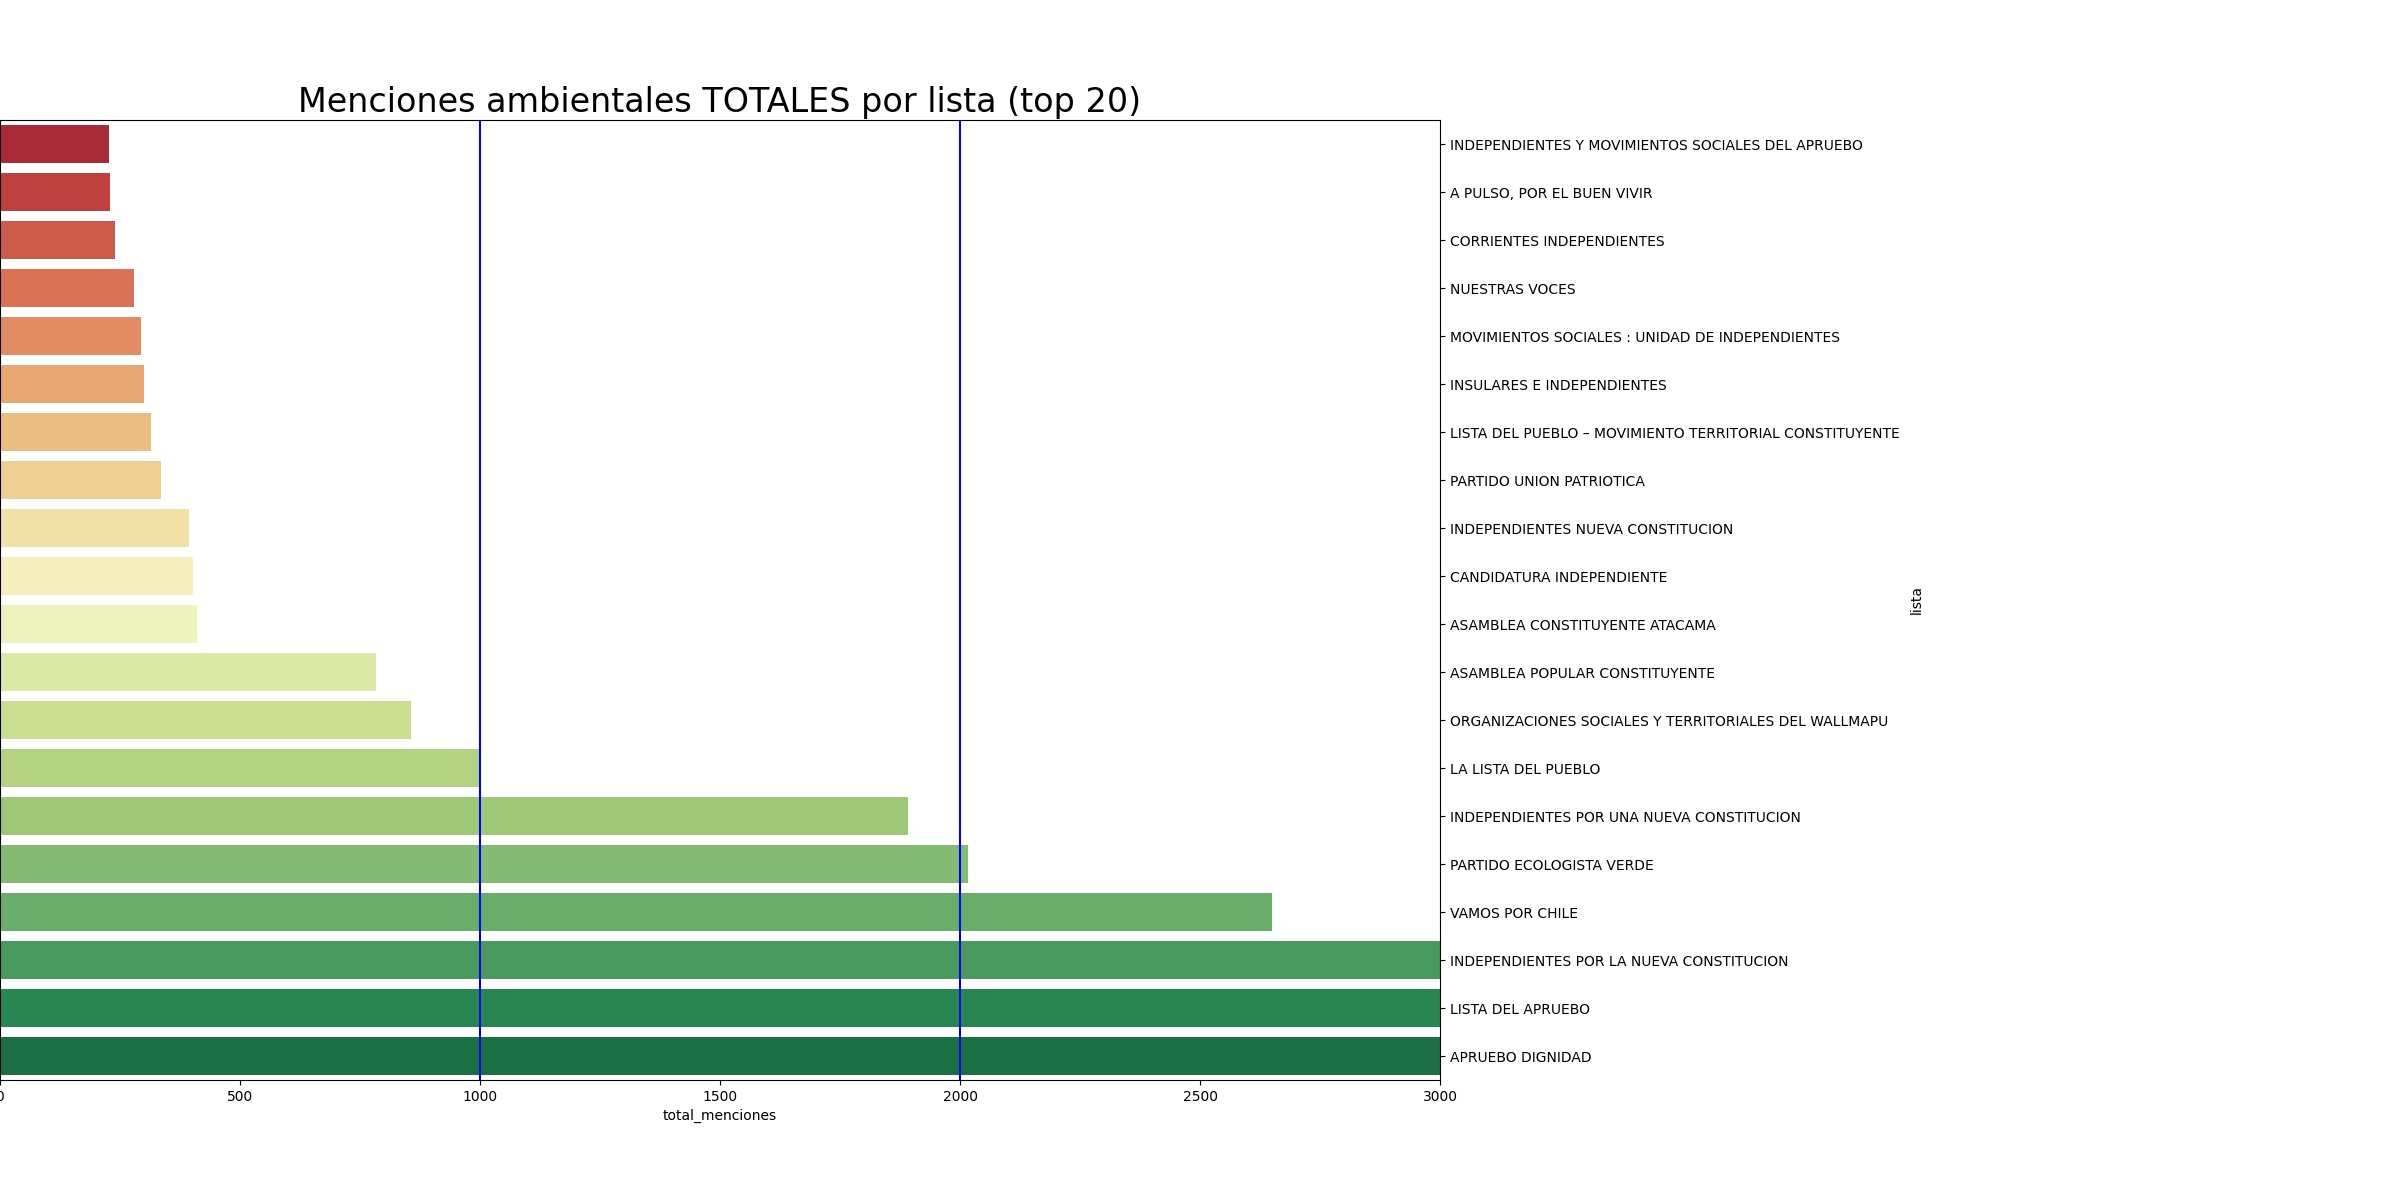
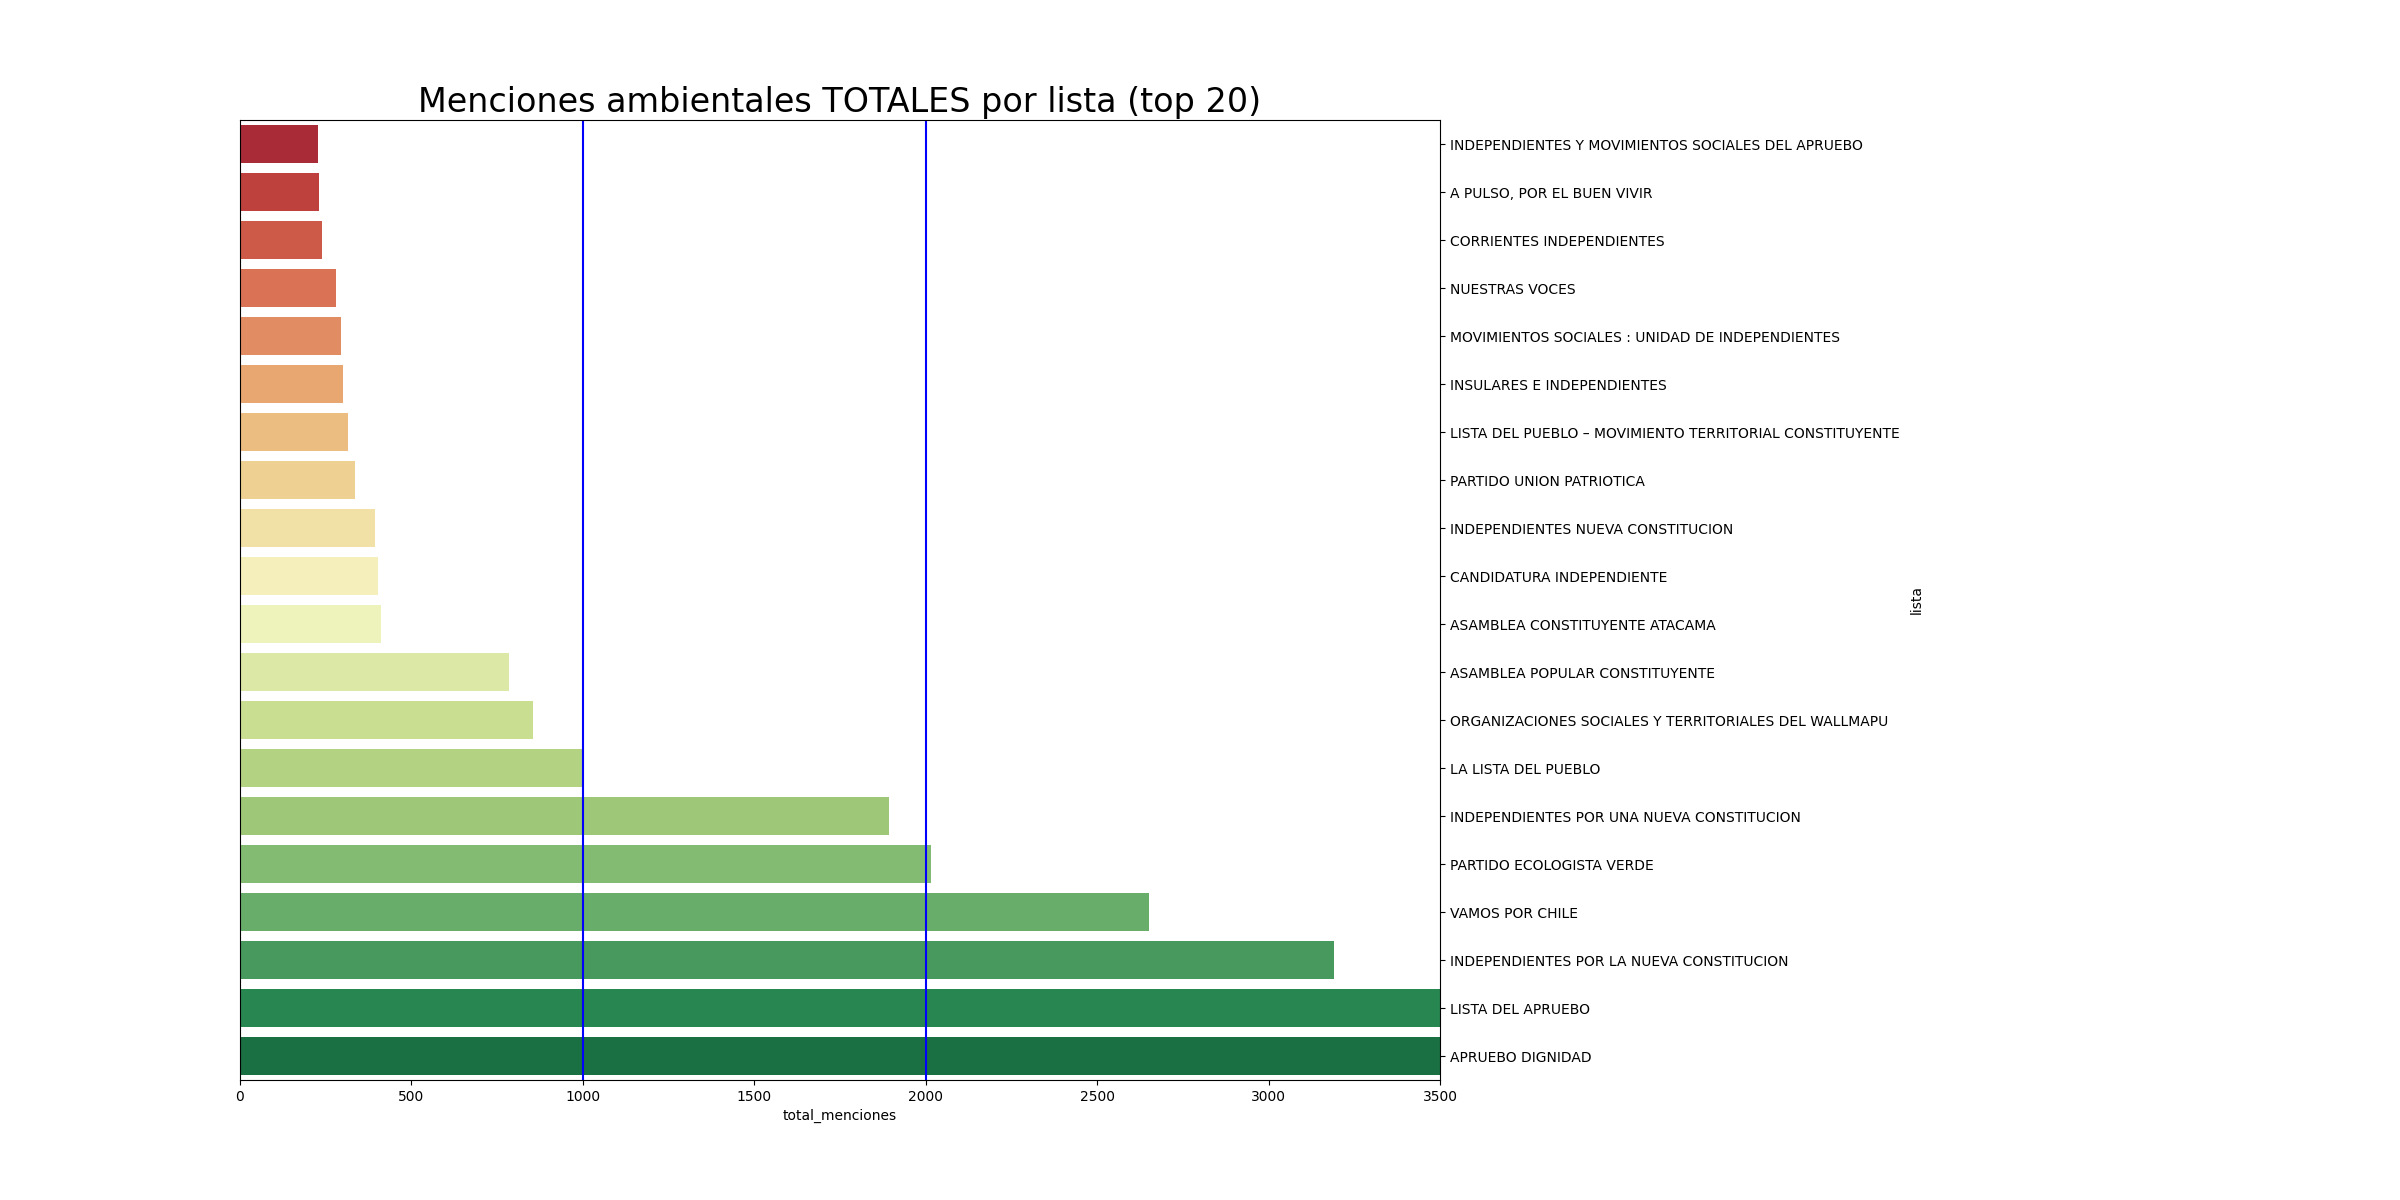
pushing it

diff --git a/plotters.py b/plotters.py
@@ -190,7 +190,7 @@ ax.yaxis.tick_right()   # all this works!
 #plt.margins(x=0.4)
 plt.xlim([0,3500])
 plt.title('Menciones ambientales TOTALES por lista (top 20)', size=24)
-plt.subplots_adjust(left=0.0, right=0.6, top=0.9, bottom=0.1)
+plt.subplots_adjust(left=0.1, right=0.6, top=0.9, bottom=0.1)
 plt.savefig('static/barplot_listas.png')
 plt.close()
 ##########schtoops###########
